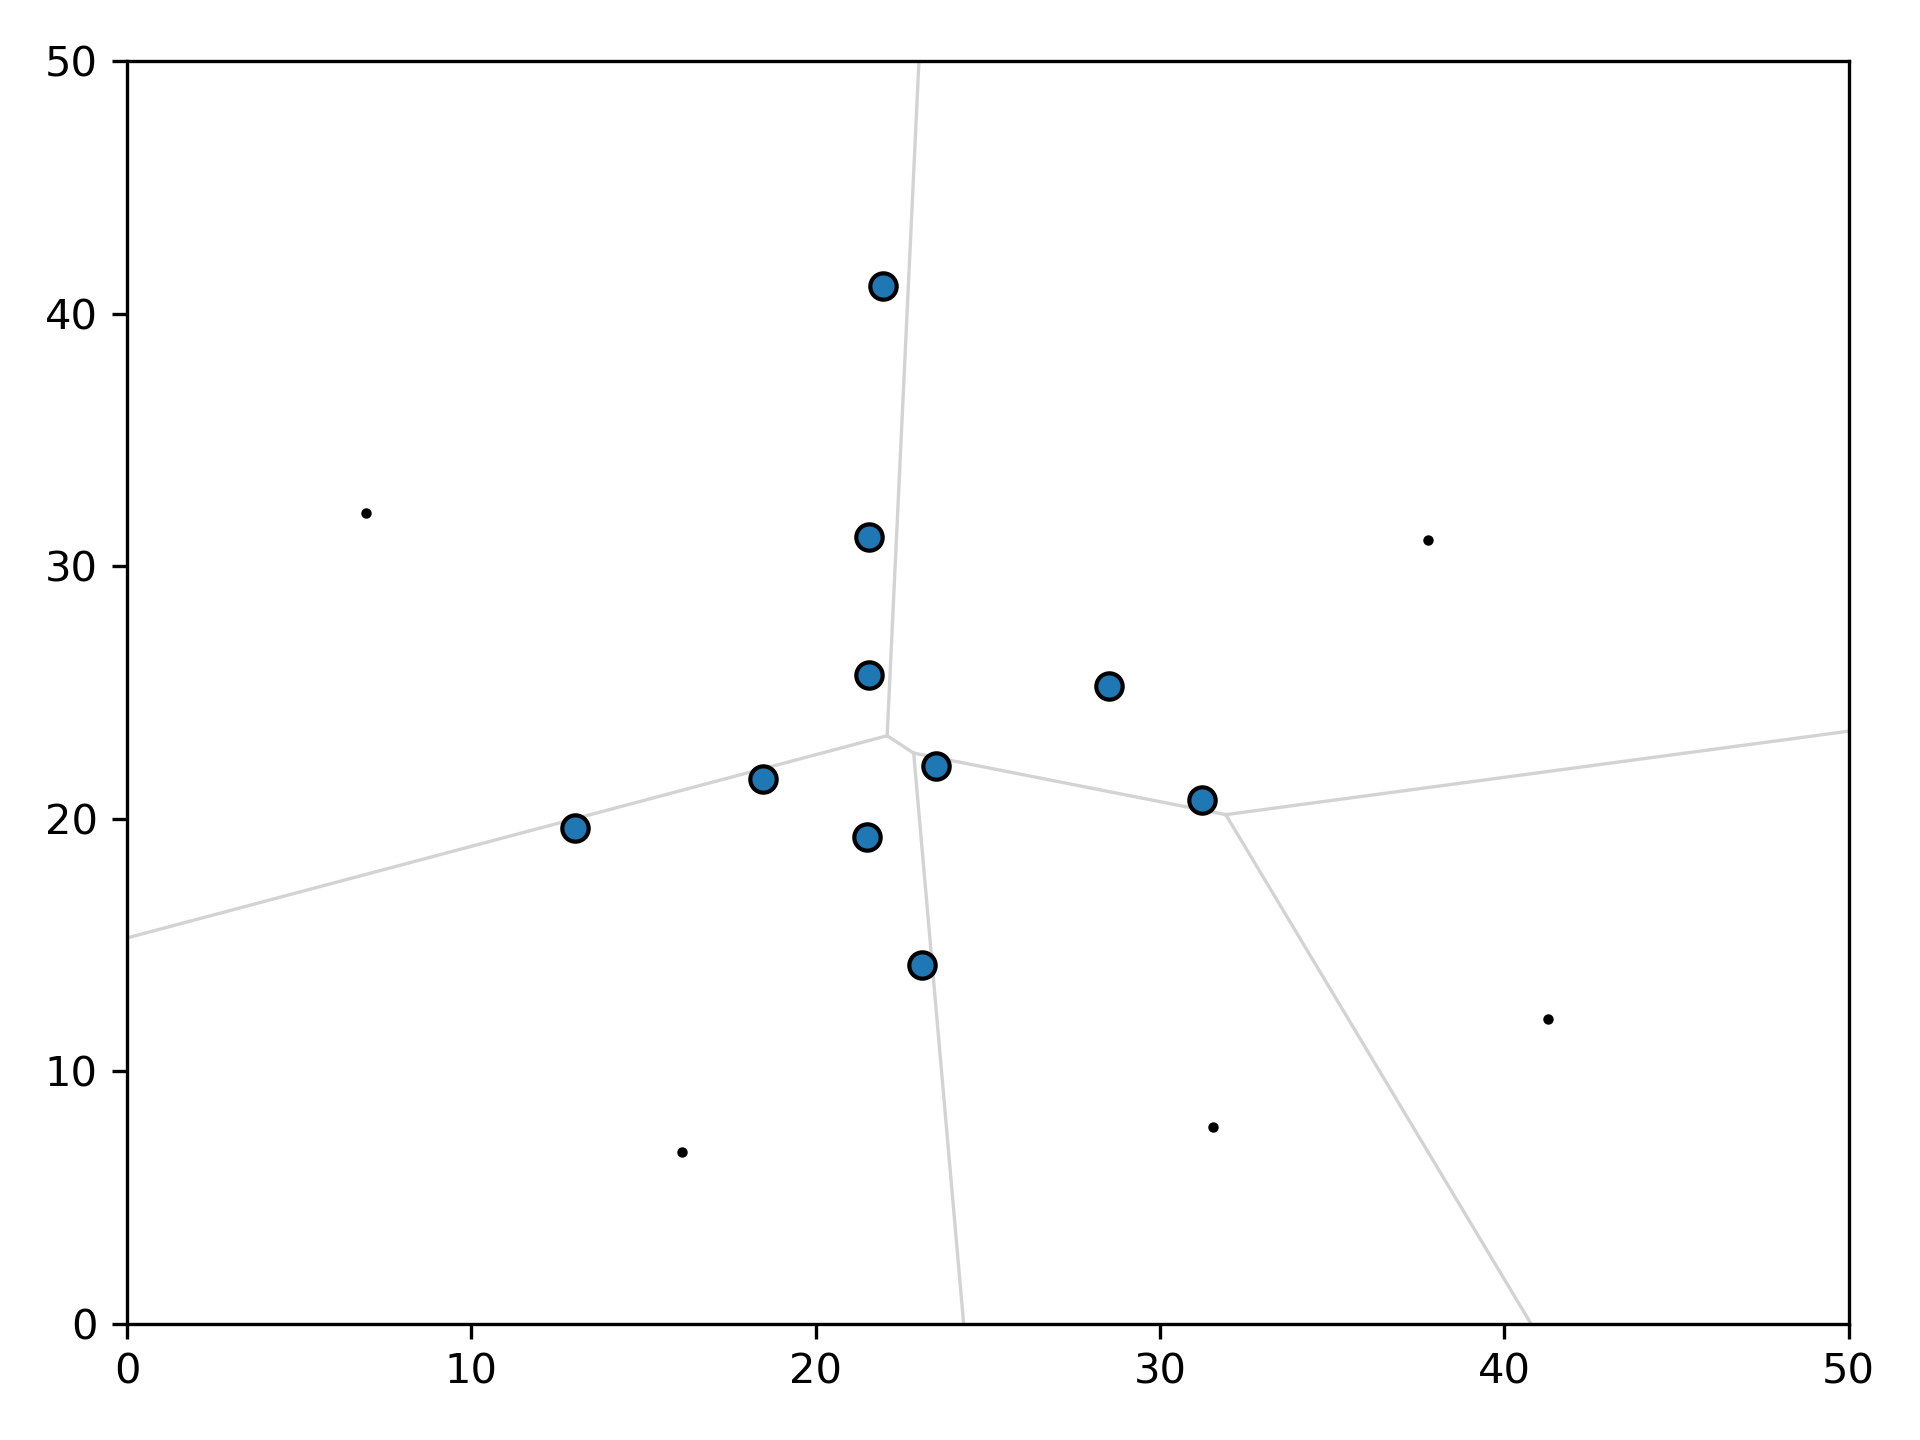
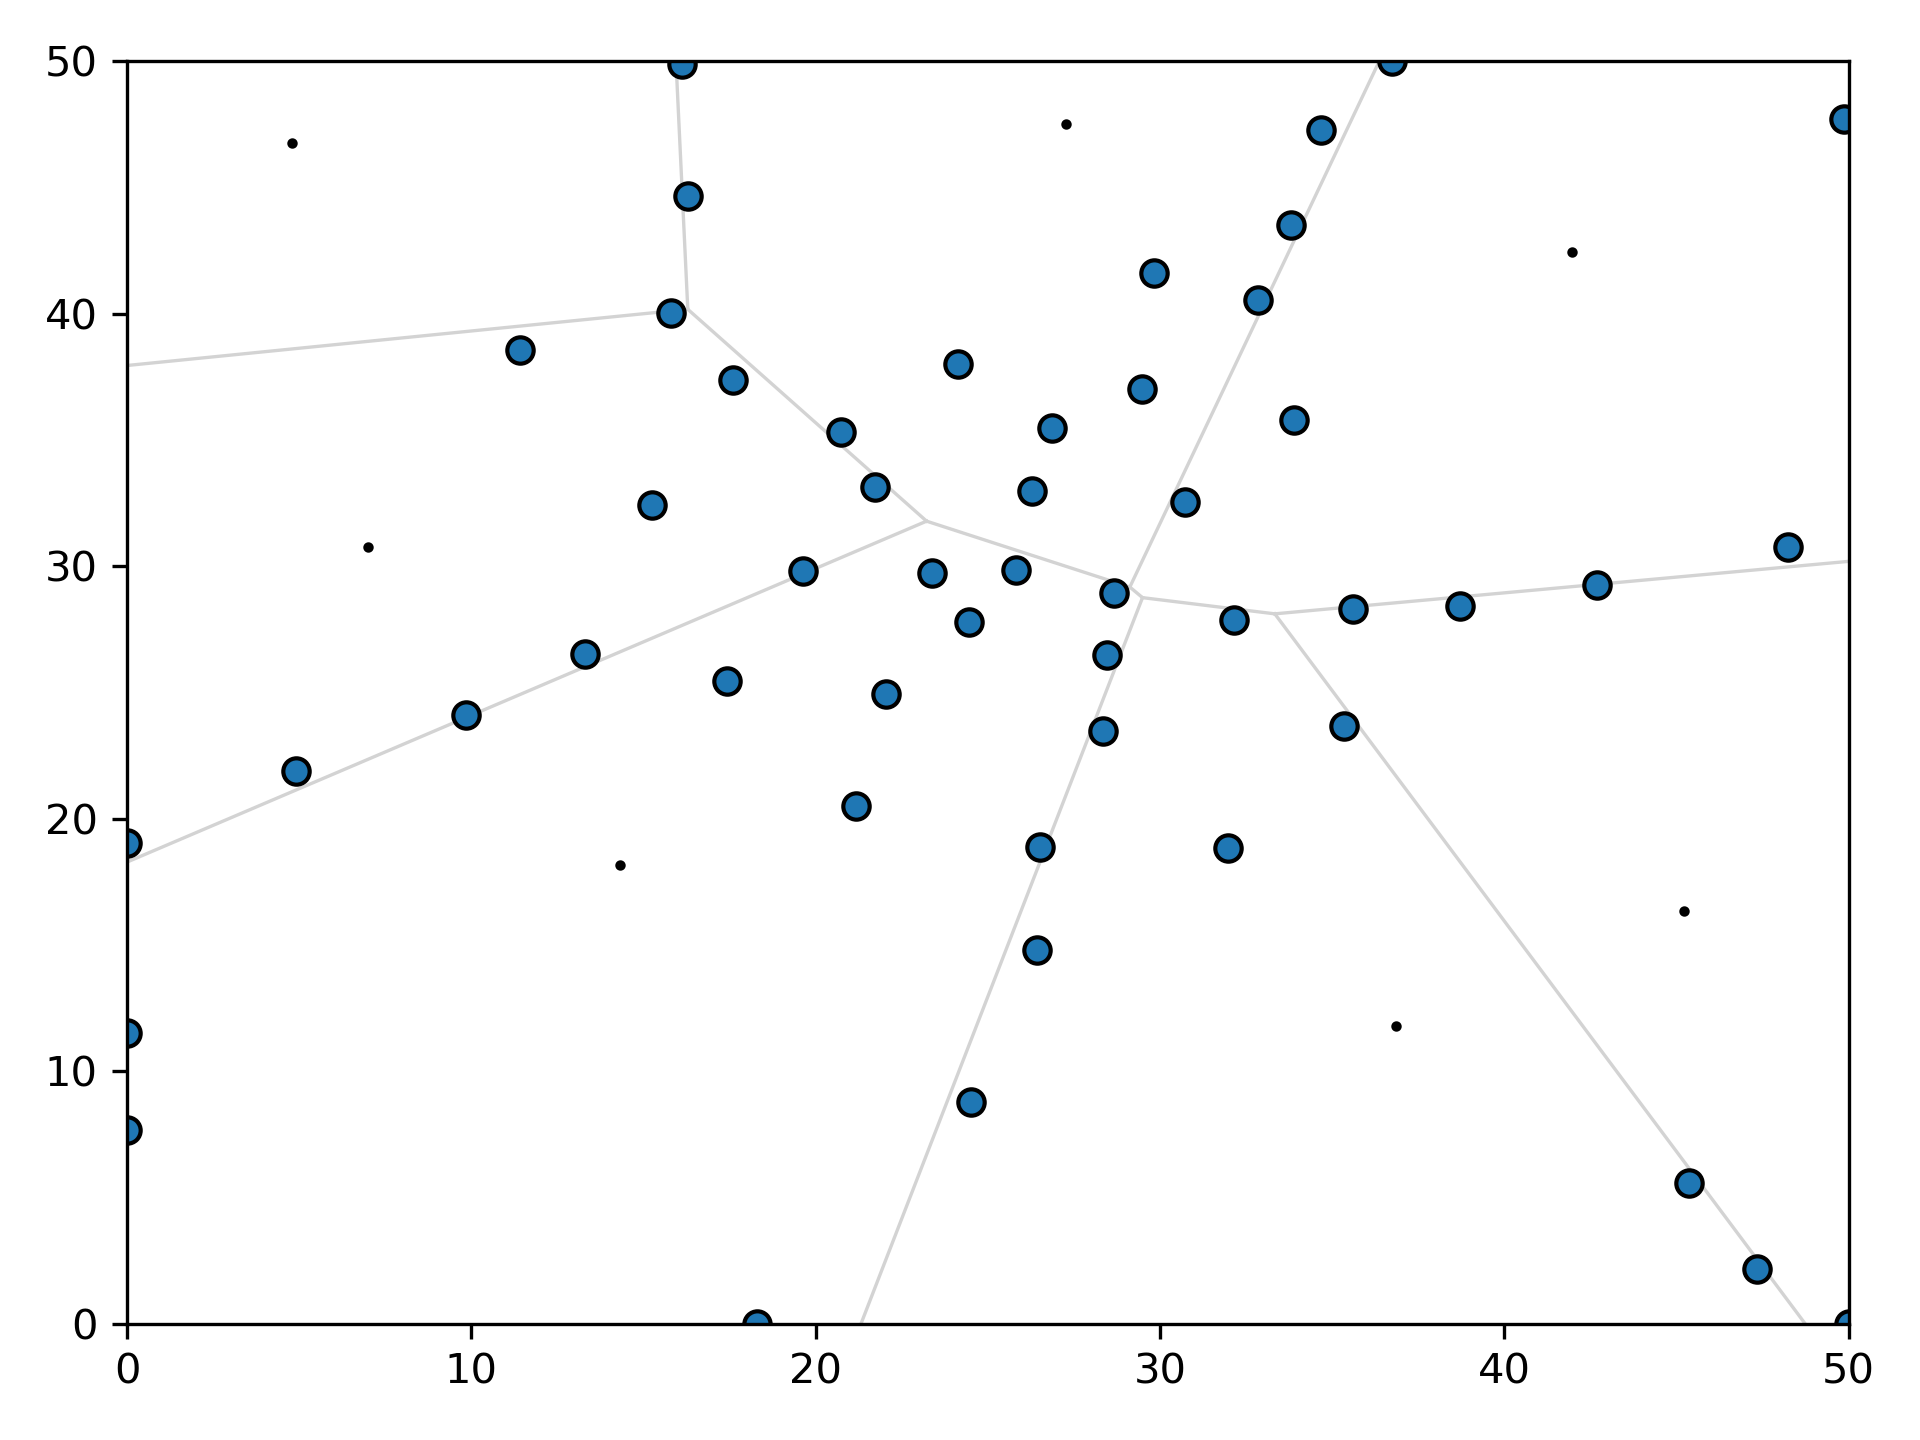
okay-ish pattern making. no robot2robot communication yet

diff --git a/Agents/swarm.py b/Agents/swarm.py
@@ -24,6 +24,7 @@ class Swarm:
     def step(self):
         scans = {bot.id: bot.scan() for bot in self.robots}
         self.apply_logic(scans)
+        
 
     def apply_logic(self, scans):
         for bot in self.robots:
@@ -35,14 +36,6 @@ class Swarm:
             if len(pts) < 2:
                 continue
 
-            # points sorted st smallest distance is first
-            nearby_points = sorted(pts, key=lambda d: d['distance'], reverse=False)
-            
-            # move away from the closest point. and move towards farthest point. get unit vector
-            u_closest = nearby_points[0]['vector'] / nearby_points[0]['distance']
-            u_farthest = nearby_points[-1]['vector'] / nearby_points[-1]['distance']
-            point_drive = (u_farthest - u_closest) / np.linalg.norm(u_farthest - u_closest)
-
             # neightbor repulsion
             neighbor_repel = np.zeros(2)
             for nbr in nbrs:
@@ -51,14 +44,37 @@ class Swarm:
                     continue
                 dirn = nbr['vector'] / nbr['distance'] #np.array([math.cos(nbr['bearing']), math.sin(nbr['bearing'])])
                 neighbor_repel -= dirn * (1.0 / d**2)
-            neighbor_repel *= 10  # tune this gain to spread more or less
+            neighbor_repel *= 5  # tune this gain to spread more or less
 
+            #bot.move_toward(bot.get_position() + neighbor_repel)
+
+            # points sorted st smallest distance is first
+            nearby_points = sorted(pts, key=lambda d: d['distance'], reverse=False)
+            
+            # move away from the closest point. and move towards farthest point. get unit vector
+            u_closest = nearby_points[0]['vector'] / nearby_points[0]['distance']
+            u_farthest = nearby_points[-1]['vector'] / nearby_points[-1]['distance']
+            point_drive = (u_farthest - u_closest) / np.linalg.norm(u_farthest - u_closest)
+
+            #bot.move_toward(bot.get_position() + point_drive)
+
+            
+
+            
+
+            
+
+            #need to do a neighbor repulsion that moves along the line of point equidistance i think
+            
             # move one unit step
             move_vec = point_drive + neighbor_repel
             norm = np.linalg.norm(move_vec)
-            if norm > 1e-2: # tolerancing for numerical stability
+            if norm > 1e-1: # tolerancing for numerical stability
                 step = (move_vec / norm)
                 bot.move_toward(bot.get_position() + step)
+            
+        
+            
 
 
 

diff --git a/Agents/message.py b/Agents/message.py
@@ -1,0 +1,49 @@
+from typing import TypedDict
+from numpy.typing import NDArray
+import numpy as np
+
+class _MessageContent(TypedDict):
+    id: int # either the id of the neighboring robot or the voronoi seed point
+    vector: NDArray[np.float64] # vector from the sensed robot/point to the sender of this message
+
+class NeighborMessage:
+    def __init__(self, sender_id: int, content: _MessageContent) -> None:
+        self.sender_id = sender_id
+        self.content = content
+
+class VoronoiPointMessage:
+    def __init__(self, sender_id: int, content: _MessageContent) -> None:
+        self.sender_id = sender_id
+        self.content = content
+
+
+# the below code is weird and i dont get why it is quite necessary / the improvement
+'''
+from enum           import Enum
+from typing         import TypedDict, Union, Literal
+from numpy.typing   import NDArray
+import numpy as np
+
+class MessageKind(Enum):
+    NEIGHBOR = "neighbor"
+    VORONOI  = "voronoi"
+
+class NeighborContent(TypedDict):
+    kind:        Literal[MessageKind.NEIGHBOR]
+    neighbor_id: int
+    vector:      NDArray[np.float64]
+
+class VoronoiContent(TypedDict):
+    kind:      Literal[MessageKind.VORONOI]
+    point_id:  int
+    vector:    NDArray[np.float64]
+
+AnyContent = Union[NeighborContent, VoronoiContent]
+
+class Message:
+    def __init__(self, sender_id: int, content: AnyContent) -> None:
+        self.sender_id = sender_id
+        self.content   = content
+'''
+
+

diff --git a/Agents/robot.py b/Agents/robot.py
@@ -32,8 +32,11 @@ class Robot:
             step = (direction / norm) * speed
             self.x += step[0]
             self.y += step[1]
+        # make sure we don't go out of bounds (make it better later)
+        self.x = max(0, min(self.x, self.plane.width))
+        self.y = max(0, min(self.y, self.plane.height))
 
-    def sense_robots(self):
+    def sense_robots(self): # we return the vector FROM the neighbor TO this robot
         readings = []
         if not self.swarm:
             return readings
@@ -51,7 +54,7 @@ class Robot:
                 })
         return readings
 
-    def sense_voronoi_points(self):
+    def sense_voronoi_points(self): #we return the vector FROM the voronoi point TO this robot
         readings = []
         if not self.plane:
             return readings

diff --git a/main.py b/main.py
@@ -6,8 +6,8 @@ from Environment.points_and_plane import Plane
 from Agents.swarm import Swarm
 
 # 1. Setup environment and swarm
-plane = Plane(width=50, height=50, num_points=5)
-swarm = Swarm(plane=plane, num_robots=10, sensing_radius=50.0)
+plane = Plane(width=50, height=50, num_points=7)
+swarm = Swarm(plane=plane, num_robots=50, sensing_radius=50.0)
 
 # 2. Initialize robot paths after robots are created
 robot_paths = [[] for _ in range(len(swarm.robots))]

diff --git a/Environment/voronoi.py b/Environment/voronoi.py
@@ -12,7 +12,7 @@ class VoronoiDiagram:
         self.diagram = None
 
     def compute(self):
-        if len(self.points) >= 3:  # Minimum required for Voronoi
+        if len(self.points) >= 2:  # Minimum required for Voronoi
             self.diagram = Voronoi(self.points)
         else:
             self.diagram = None
